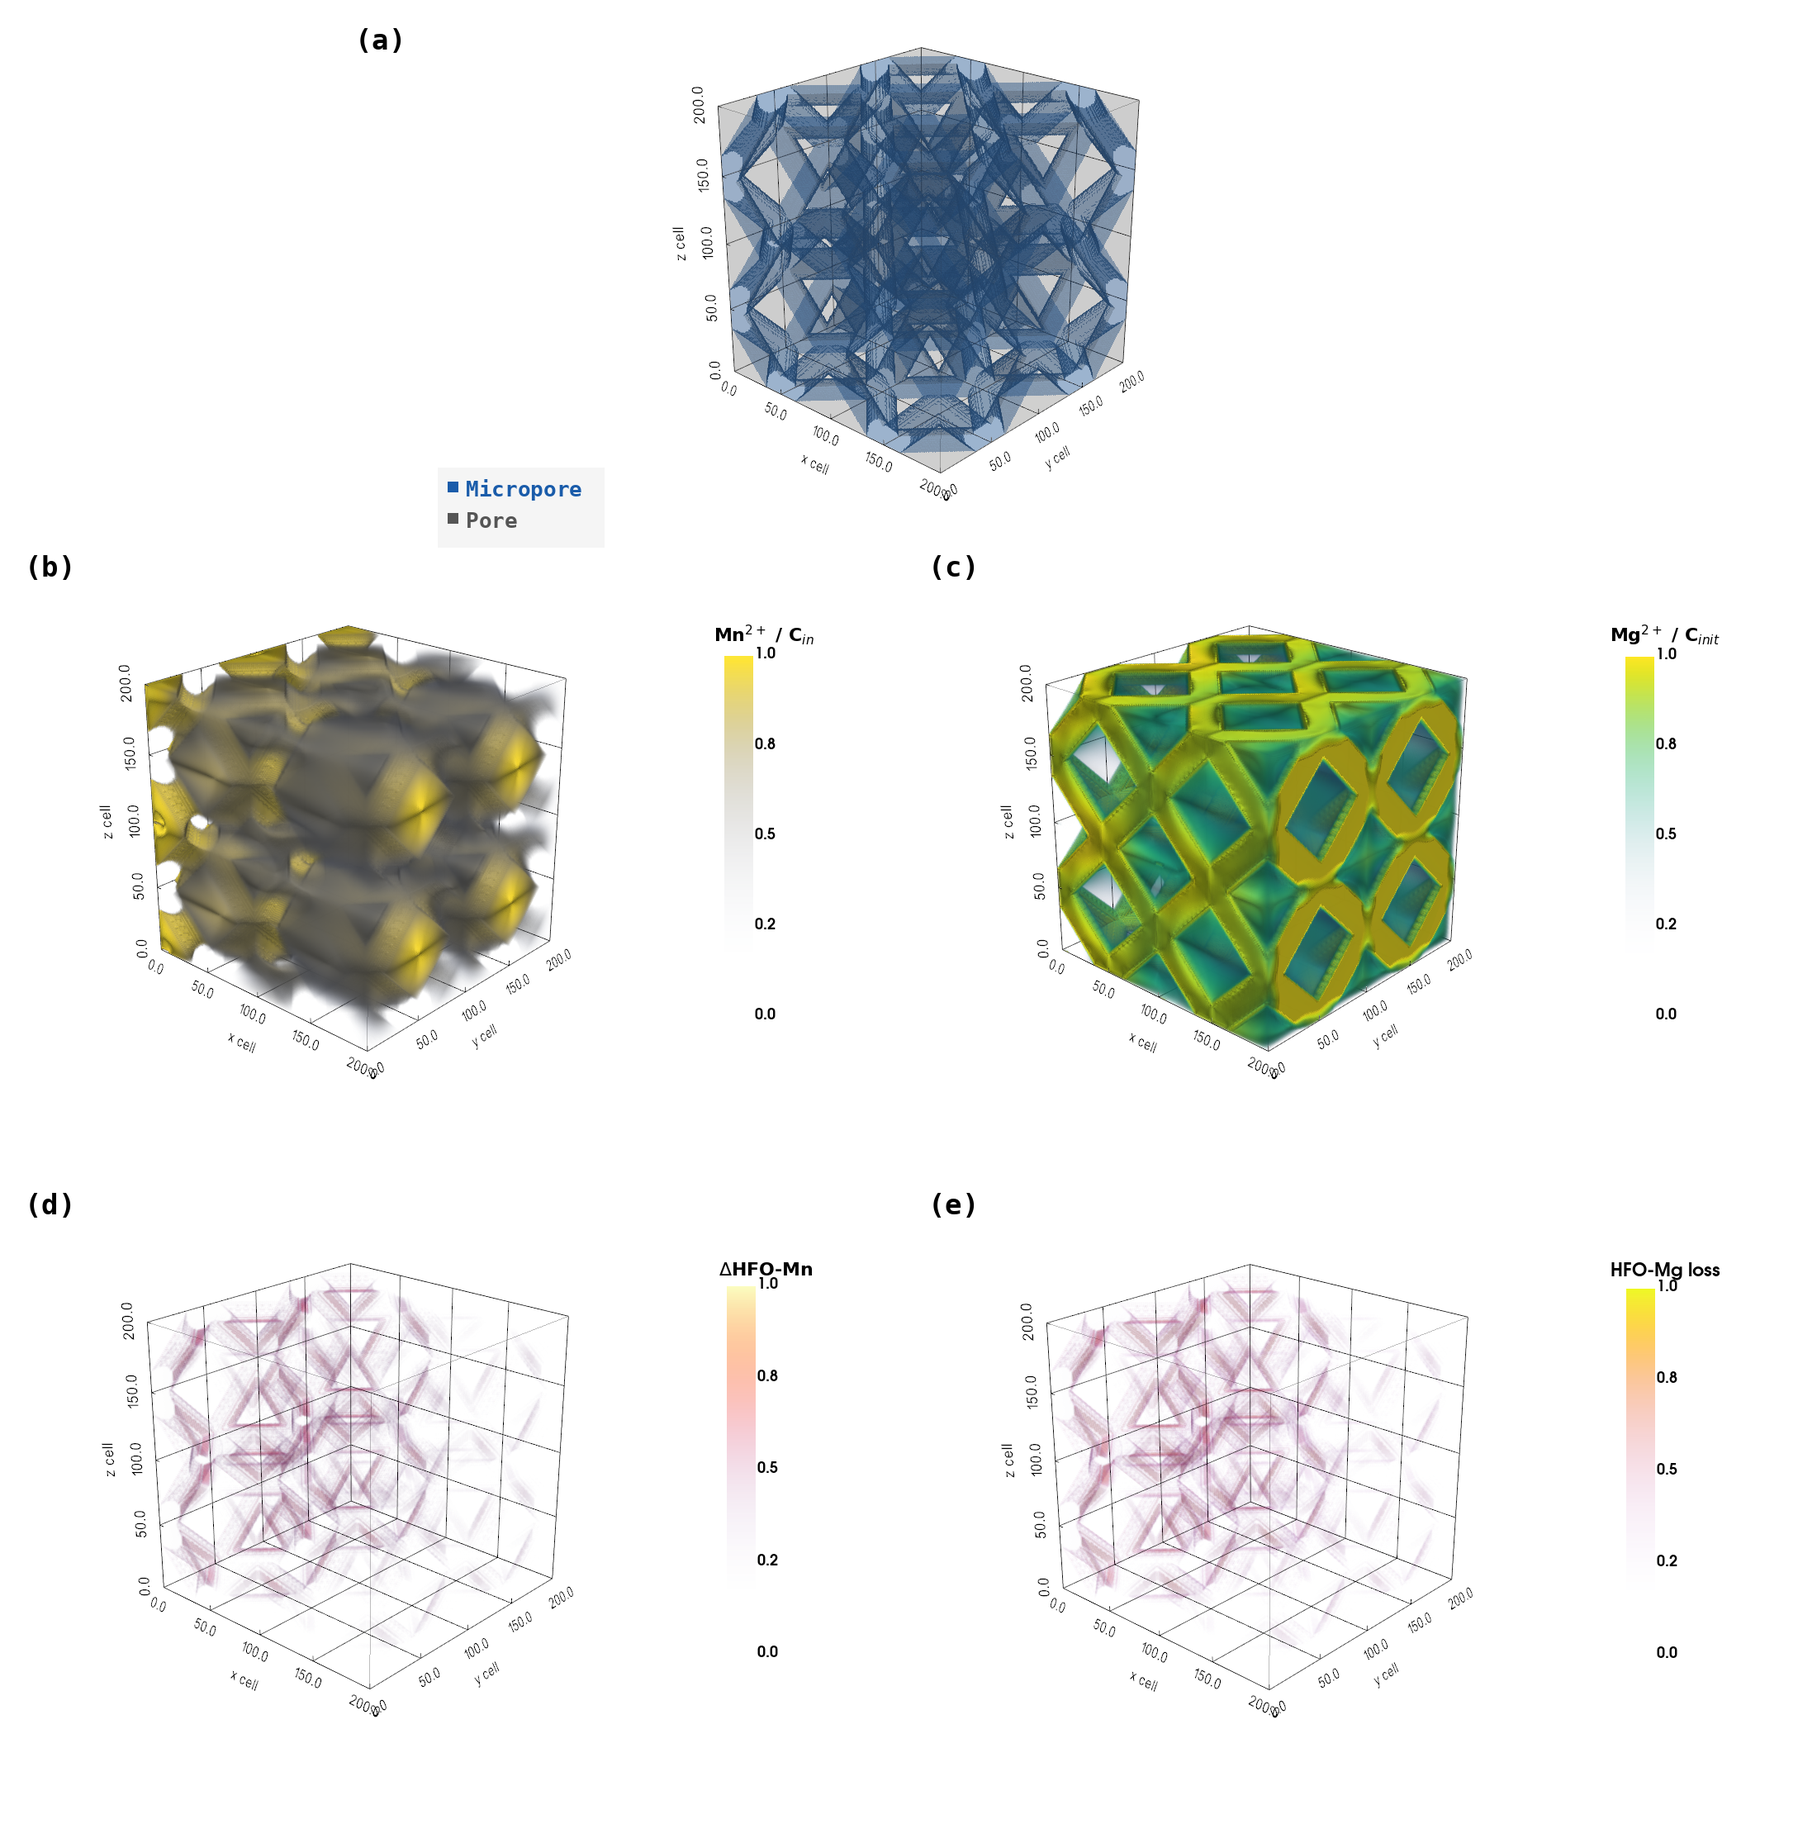
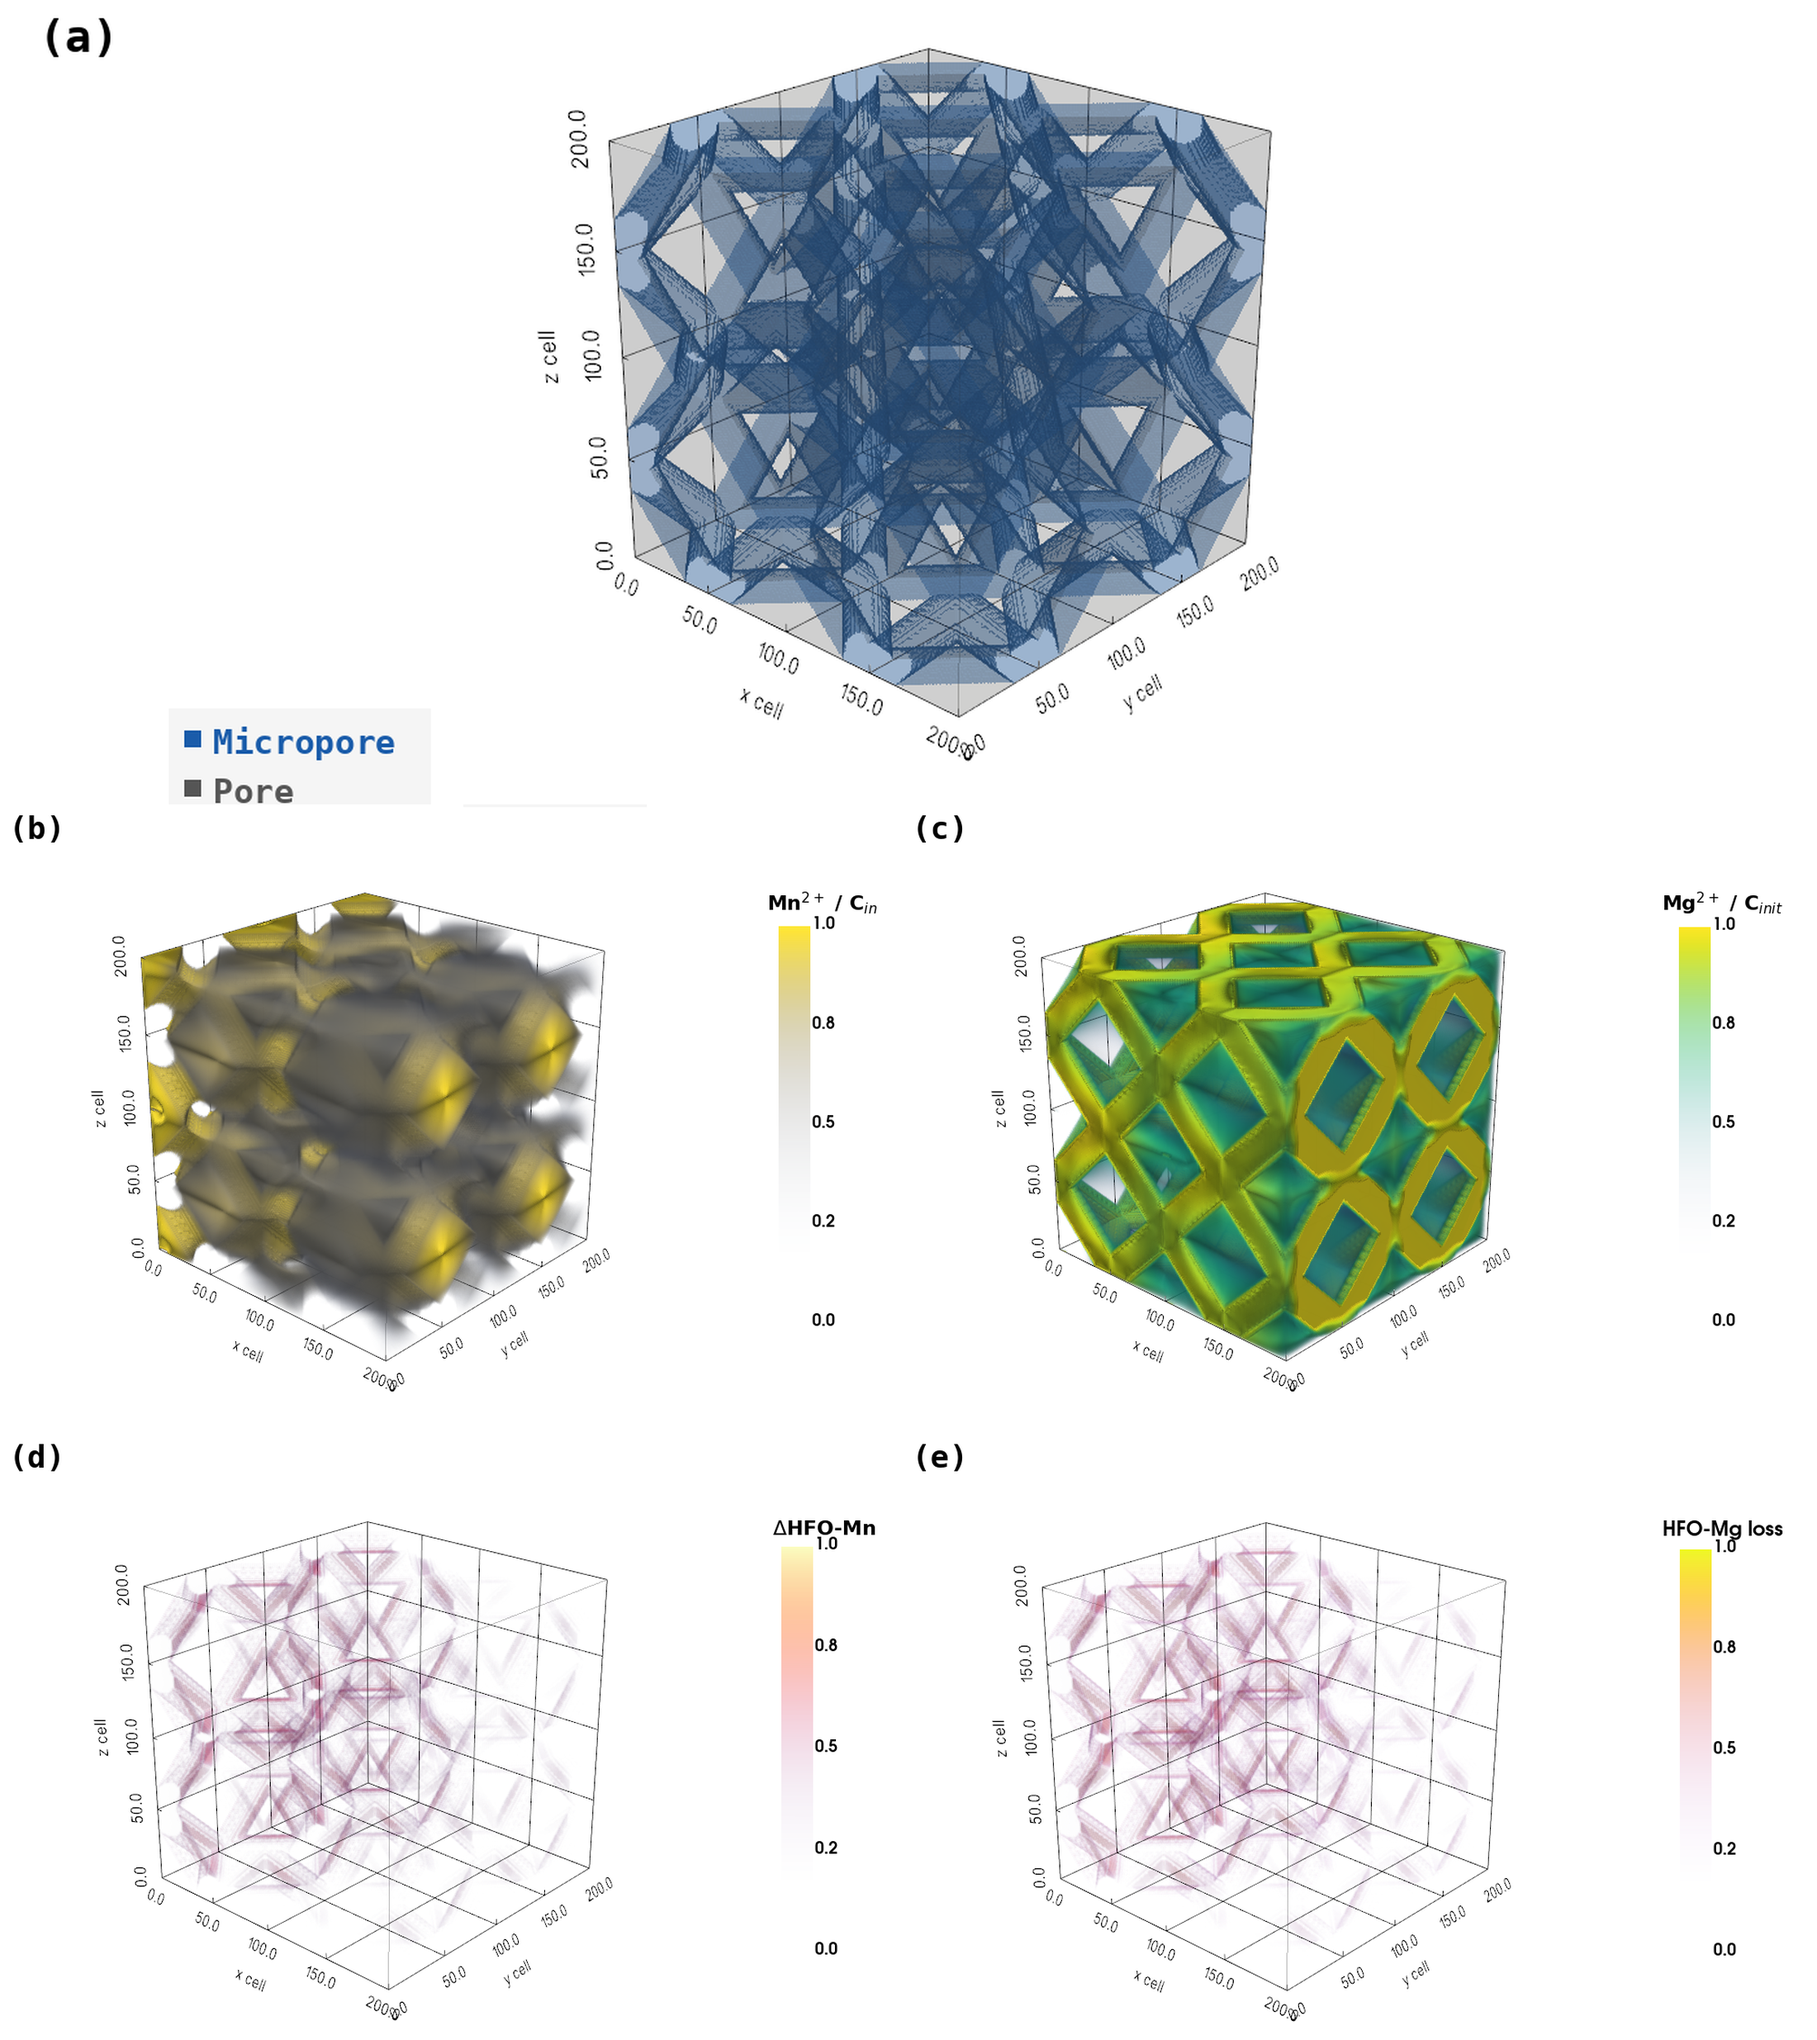
Enlarge application figure panels

diff --git a/papers/scalarTransportDBSFoam-phreeqc-surface-complexation/figures/scripts/generate_2d_raw_geometry.py b/papers/scalarTransportDBSFoam-phreeqc-surface-complexation/figures/scripts/generate_2d_raw_geometry.py
@@ -296,9 +296,9 @@ def main() -> None:
         surf_scale = max(float(surf_scale), 1.0e-30)
         surf_norm = np.clip(surf_metric / surf_scale, 0.0, 1.0)
 
-        # The manuscript includes this image at 0.9 of a 6.27-inch text width.
-        # A near-final-size canvas and explicit type sizes keep all text above
-        # 8 pt after inclusion instead of shrinking a wide presentation canvas.
+        # Keep the three directly comparable maps in one row, but place their
+        # colour bars horizontally.  This removes the wide vertical-label
+        # gutters that previously reduced the maps at manuscript size.
         plt.rcParams.update({
             "font.size": 9.0,
             "axes.titlesize": 9.0,
@@ -306,7 +306,7 @@ def main() -> None:
             "xtick.labelsize": 9.0,
             "ytick.labelsize": 9.0,
         })
-        fig, axes = plt.subplots(1, 3, figsize=(6.2, 2.25), sharey=True)
+        fig, axes = plt.subplots(1, 3, figsize=(6.2, 3.05), sharey=True)
 
         mesh = axes[0].imshow(
             coarse_labels,
@@ -319,8 +319,16 @@ def main() -> None:
         axes[0].set_title("(a) Geometry")
         axes[0].set_xlabel("x [mm]")
         axes[0].set_ylabel("y [mm]")
-        cbar0 = fig.colorbar(mesh, ax=axes[0], ticks=geometry_ticks, fraction=0.046, pad=0.04)
-        cbar0.ax.set_yticklabels(geometry_ticklabels)
+        cbar0 = fig.colorbar(
+            mesh,
+            ax=axes[0],
+            ticks=geometry_ticks,
+            orientation="horizontal",
+            fraction=0.055,
+            pad=0.26,
+            aspect=22,
+        )
+        cbar0.ax.set_xticklabels(geometry_ticklabels)
 
         axes[1].imshow(
             coarse_labels,
@@ -366,7 +374,14 @@ def main() -> None:
             extent=mm_extent,
         )
         axes[1].set_xlabel("x [mm]")
-        cbar1 = fig.colorbar(field1, ax=axes[1], fraction=0.046, pad=0.04)
+        cbar1 = fig.colorbar(
+            field1,
+            ax=axes[1],
+            orientation="horizontal",
+            fraction=0.055,
+            pad=0.26,
+            aspect=22,
+        )
         cbar1.set_label(cbar1_label)
 
         axes[2].imshow(
@@ -418,7 +433,14 @@ def main() -> None:
             axes[2].set_xlim(args.surface_xlim_mm)
         if args.surface_ylim_mm is not None:
             axes[2].set_ylim(args.surface_ylim_mm)
-        cbar2 = fig.colorbar(field2, ax=axes[2], fraction=0.046, pad=0.04)
+        cbar2 = fig.colorbar(
+            field2,
+            ax=axes[2],
+            orientation="horizontal",
+            fraction=0.055,
+            pad=0.26,
+            aspect=22,
+        )
         cbar2.set_label(cbar2_label)
 
     else:

diff --git a/papers/scalarTransportDBSFoam-phreeqc-surface-complexation/figures/scripts/generate_kelvin_competition_figure.py b/papers/scalarTransportDBSFoam-phreeqc-surface-complexation/figures/scripts/generate_kelvin_competition_figure.py
@@ -76,6 +76,7 @@ def add_geometry_scene(
         color="black",
     )
     plotter.camera_position = camera_position(nx, ny, nz)
+    plotter.camera.zoom(1.18)
 
 
 def add_volume_scene(
@@ -128,6 +129,7 @@ def add_volume_scene(
         color="black",
     )
     plotter.camera_position = camera_position(nx, ny, nz)
+    plotter.camera.zoom(1.18)
 
 
 def stitch_field_sum(
@@ -195,6 +197,30 @@ def fit_image(image: np.ndarray, target_width: int, target_height: int) -> Image
     y0 = (target_height - pil.height) // 2
     canvas.paste(pil, (x0, y0))
     return canvas
+
+
+def compact_composite(canvas: Image.Image) -> Image.Image:
+    """Remove unused panel margins while retaining all labels and colour bars."""
+    top = canvas.crop((400, 20, 1800, 640)).resize(
+        (2200, 974), Image.Resampling.LANCZOS
+    )
+    rows: list[tuple[Image.Image, Image.Image]] = []
+    for y0 in (640, 1400):
+        left = canvas.crop((20, y0 + 20, 1020, y0 + 700)).resize(
+            (1100, 748), Image.Resampling.LANCZOS
+        )
+        right = canvas.crop((1120, y0 + 20, 2120, y0 + 700)).resize(
+            (1100, 748), Image.Resampling.LANCZOS
+        )
+        rows.append((left, right))
+
+    compact = Image.new("RGB", (2200, 2470), "white")
+    compact.paste(top, (0, 0))
+    for index, (left, right) in enumerate(rows):
+        y0 = 974 + index * 748
+        compact.paste(left, (0, y0))
+        compact.paste(right, (1100, y0))
+    return compact
 
 
 def panel_label(draw: ImageDraw.ImageDraw, xy: tuple[int, int], text: str) -> None:
@@ -384,7 +410,7 @@ def main() -> None:
     ), pad=0)
 
     canvas_w = 2200
-    gap = 12
+    gap = 0
     top_w = 1380
     top_h = 640
     cell_w = (canvas_w - 3 * gap) // 2
@@ -415,7 +441,7 @@ def main() -> None:
     draw_geometry_legend(draw, (top_x + 120, top_y + top_h - 86))
 
     args.output.parent.mkdir(parents=True, exist_ok=True)
-    canvas.save(args.output)
+    compact_composite(canvas.convert("RGB")).save(args.output)
 
 
 if __name__ == "__main__":

diff --git a/papers/scalarTransportDBSFoam-phreeqc-surface-complexation/sections/06_test_cases.tex b/papers/scalarTransportDBSFoam-phreeqc-surface-complexation/sections/06_test_cases.tex
@@ -228,9 +228,9 @@ concentrations are higher along the open fracture channels than in the adjacent
 microporous matrix. Strong-site occupancy is greatest near the inlet and is
 locally enhanced in microporous material adjacent to fracture intersections.
 
-\begin{figure}[htbp]
+\begin{figure}[p]
     \centering
-    \includegraphics[width=0.9\linewidth]{figures/png/fig02_2d_fractures.png}
+    \includegraphics[width=\linewidth]{figures/png/fig02_2d_fractures.png}
     \caption{Dissolved Pb$^{2+}$ and strong-site occupancy in the 2D
     fracture-network case at $t=20000$~s. Left: segmented geometry, with
     microporous material in blue and open fracture space in white.
@@ -294,7 +294,7 @@ water has contacted the sorbent.
 
 \begin{figure}[htbp]
     \centering
-    \includegraphics[width=0.9\linewidth]{figures/png/fig03_3d_kelvin.png}
+    \includegraphics[width=\linewidth]{figures/png/fig03_3d_kelvin.png}
     \caption{Five-panel 3D competition snapshot for the Kelvin case at $t = 120$~s.
     (a)~Segmented geometry: micropore diamond lattice in blue, pore space in grey.
     (b)~Normalised dissolved Mn$^{2+}$ / $C_{\mathrm{in}}$; the advancing front enters

diff --git a/papers/scalarTransportDBSFoam-phreeqc-surface-complexation/figures/scripts/generate_3d_volume_render_pyvista.py b/papers/scalarTransportDBSFoam-phreeqc-surface-complexation/figures/scripts/generate_3d_volume_render_pyvista.py
@@ -1055,7 +1055,12 @@ def main() -> None:
     use_2x2 = second_aqueous is not None
     shape = (2, 2) if use_2x2 else (1, 3)
     win_size = (3200, 3200) if use_2x2 else (2400, 960)
-    plotter = pv.Plotter(shape=shape, off_screen=True, window_size=win_size)
+    plotter = pv.Plotter(
+        shape=shape,
+        off_screen=True,
+        window_size=win_size,
+        border=False,
+    )
 
     add_geometry_panel(
         plotter=plotter,
